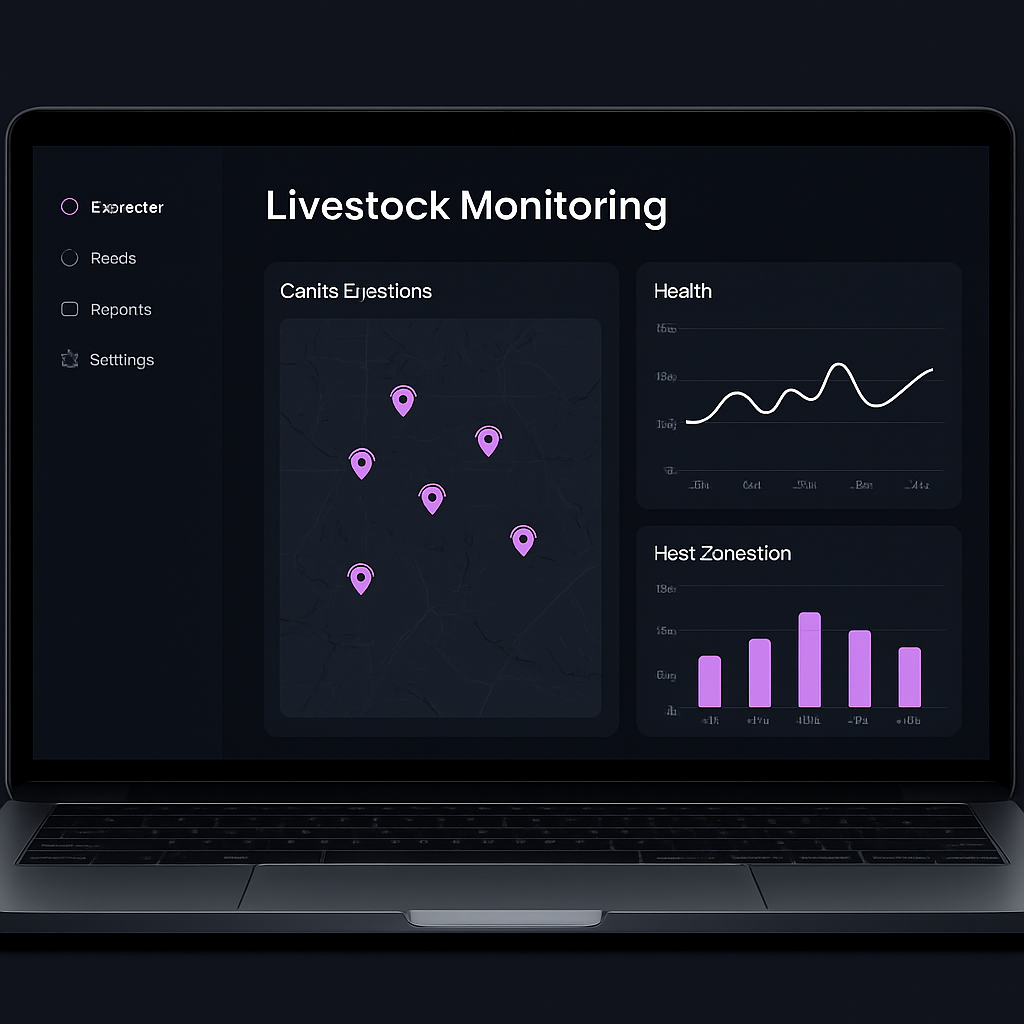
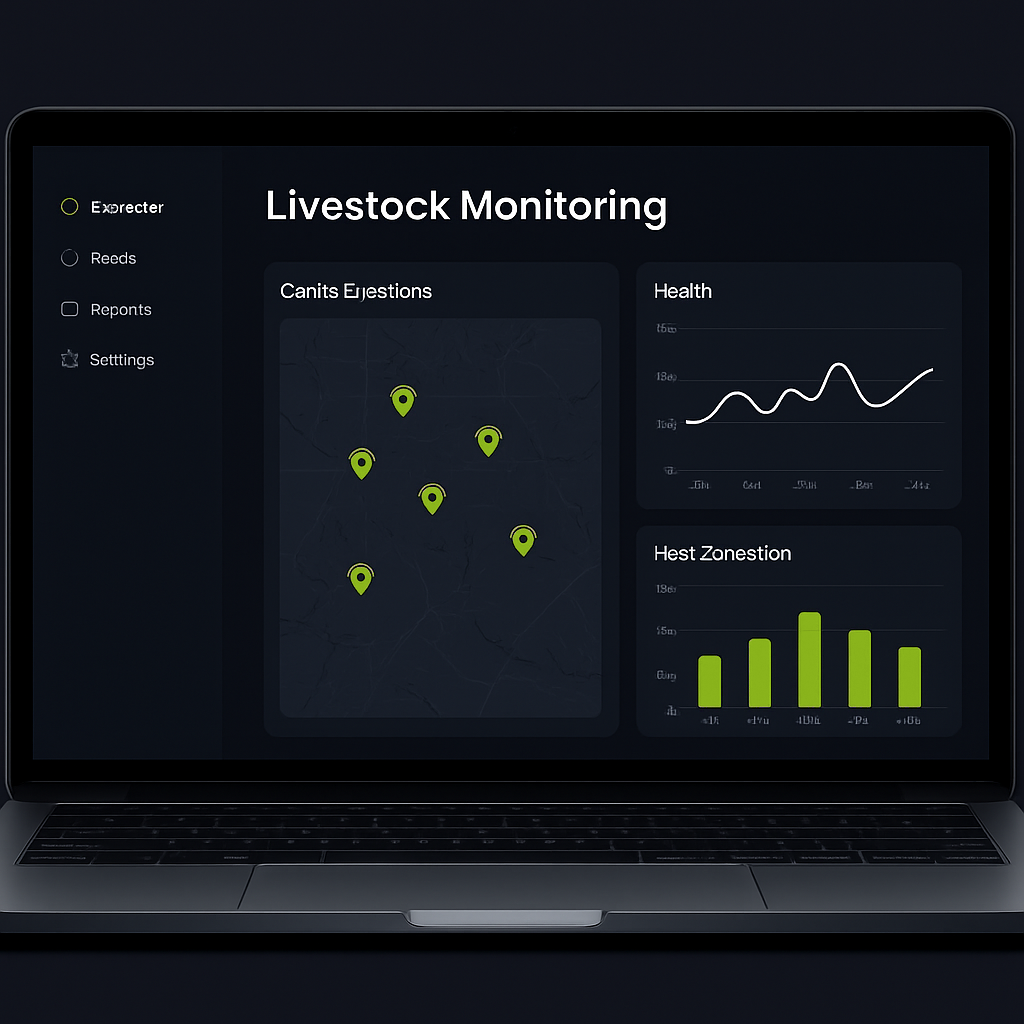
chore : ajustando estilos e imagenes de la LandingPage

diff --git a/frontend/src/pages/LandingPage.tsx b/frontend/src/pages/LandingPage.tsx
@@ -217,11 +217,11 @@ export default function LandingPage() {
   };
 
   const teamMembers = [
-    { name: 'Santiago Mendez', role: 'CEO', img: '/team/santiago-mendez.jpg' },
-    { name: 'Iñaki Joaquín Lorences', role: 'Técnico de Campo', img: '/team/inaki-lorences.jpg' },
-    { name: 'Julián Cardoso Landin', role: 'Técnico de Campo', img: '/team/julian-cardoso.jpg' },
-    { name: 'Matías Gabriel Jastrebow', role: 'Asesor Contable y Legal', img: '/team/matias-jastrebow.jpg' },
-    { name: 'Tomás Agustín Fabrizio', role: 'Asesor Contable y Legal', img: '/team/tomas-fabrizio.png' }
+    { name: 'Santiago Mendez', role: 'Project Manager', img: '/team/santiago-mendez.jpg' },
+    { name: 'Iñaki Joaquín Lorences', role: 'Scrum Master', img: '/team/inaki-lorences.jpg' },
+    { name: 'Julián Cardoso Landin', role: 'Product Owner', img: '/team/julian-cardoso.jpg' },
+    { name: 'Matías Gabriel Jastrebow', role: 'Líder Técnico', img: '/team/matias-jastrebow.jpg' },
+    { name: 'Tomás Agustín Fabrizio', role: 'Arquitecto de Software', img: '/team/tomas-fabrizio.png' }
   ];
 
   return (

diff --git a/frontend/src/pages/LandingPage.css b/frontend/src/pages/LandingPage.css
@@ -986,13 +986,20 @@
 
 @media (min-width: 640px) {
   .landing-team-grid {
-    grid-template-columns: repeat(3, 1fr);
+    grid-template-columns: repeat(6, 1fr);
   }
-}
 
-@media (min-width: 1024px) {
-  .landing-team-grid {
-    grid-template-columns: repeat(4, 1fr);
+  .landing-team-card {
+    grid-column: span 2;
+  }
+
+  /* Centrar los dos integrantes inferiores (grilla 3 y 2) */
+  .landing-team-card:nth-child(4) {
+    grid-column: 2 / span 2;
+  }
+
+  .landing-team-card:nth-child(5) {
+    grid-column: 4 / span 2;
   }
 }
 
